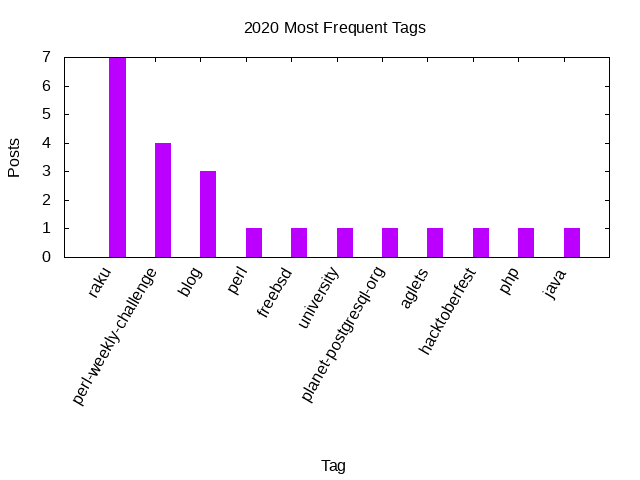
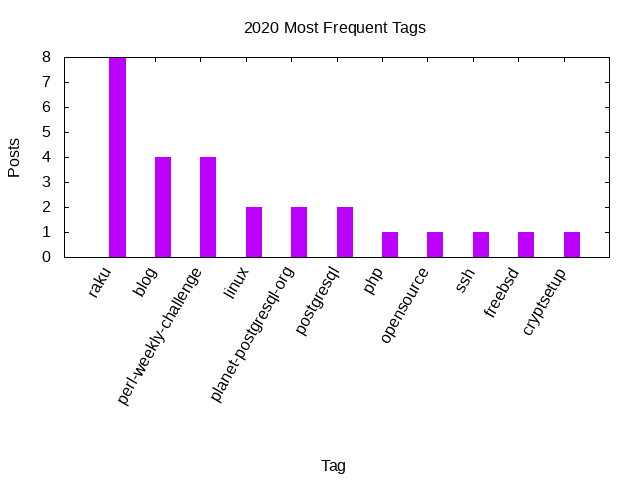
Stats update.

diff --git a/_includes/stats/2020.md b/_includes/stats/2020.md
@@ -1,20 +1,20 @@
 ## 2020 (work in progress)
 
-**13 total posts** have been written on 2020.
-There have been *19 different tags* used, the most
+**16 total posts** have been written on 2020.
+There have been *20 different tags* used, the most
 used popular being (in order of number of posts):
  
-- *raku* (7 posts)  
+- *raku* (8 posts)  
+- *blog* (4 posts)  
 - *perl-weekly-challenge* (4 posts)  
-- *blog* (3 posts)  
-- *perl* (1 posts)  
-- *freebsd* (1 posts)  
-- *university* (1 posts)  
-- *planet-postgresql-org* (1 posts)  
-- *aglets* (1 posts)  
-- *hacktoberfest* (1 posts)  
+- *linux* (2 posts)  
+- *planet-postgresql-org* (2 posts)  
+- *postgresql* (2 posts)  
 - *php* (1 posts)  
-- *java* (1 posts).<br/>
+- *opensource* (1 posts)  
+- *ssh* (1 posts)  
+- *freebsd* (1 posts)  
+- *cryptsetup* (1 posts).<br/>
 <br/>
 The following is the overall 2020 post ratio by month:
 <br/>
@@ -33,7 +33,7 @@ The following is the overall 2020 post ratio by tag:
 
 <div align="right">
 <small>
-Last generated on 2020-02-03 at 15:07
+Last generated on 2020-02-05 at 14:59
 </small>
 </div>
 
